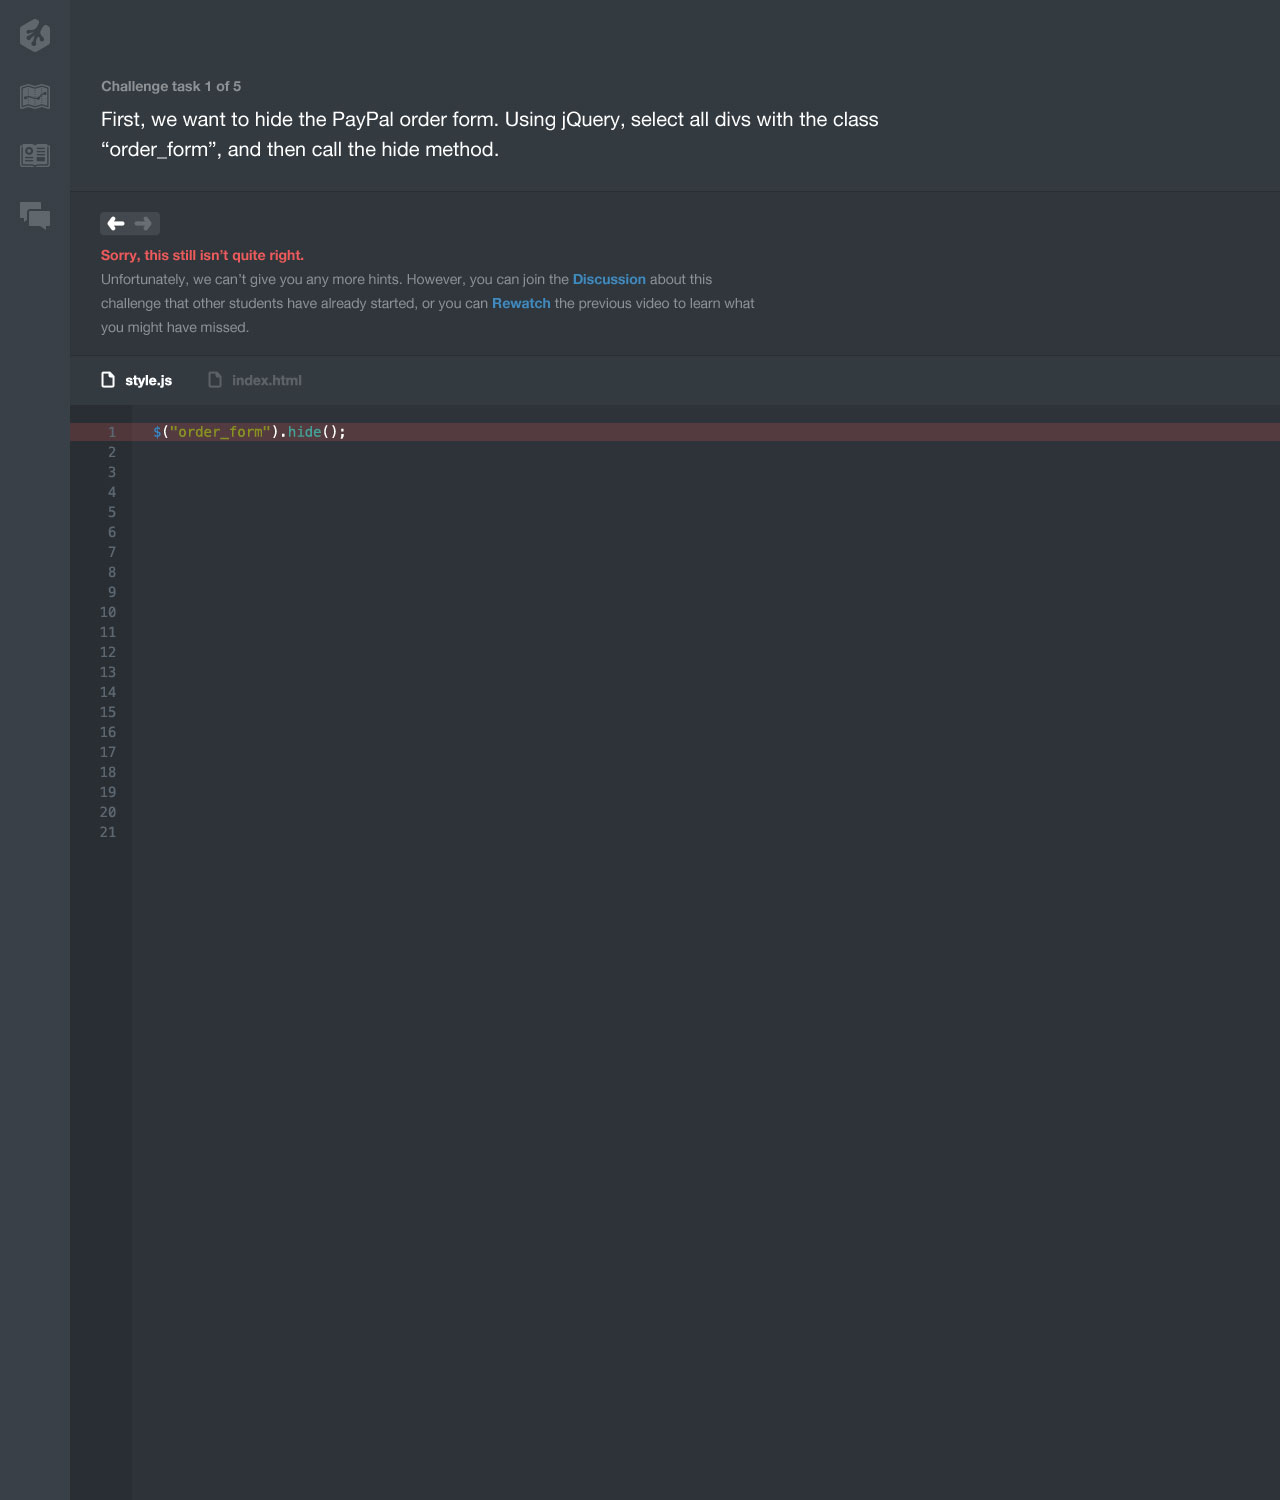
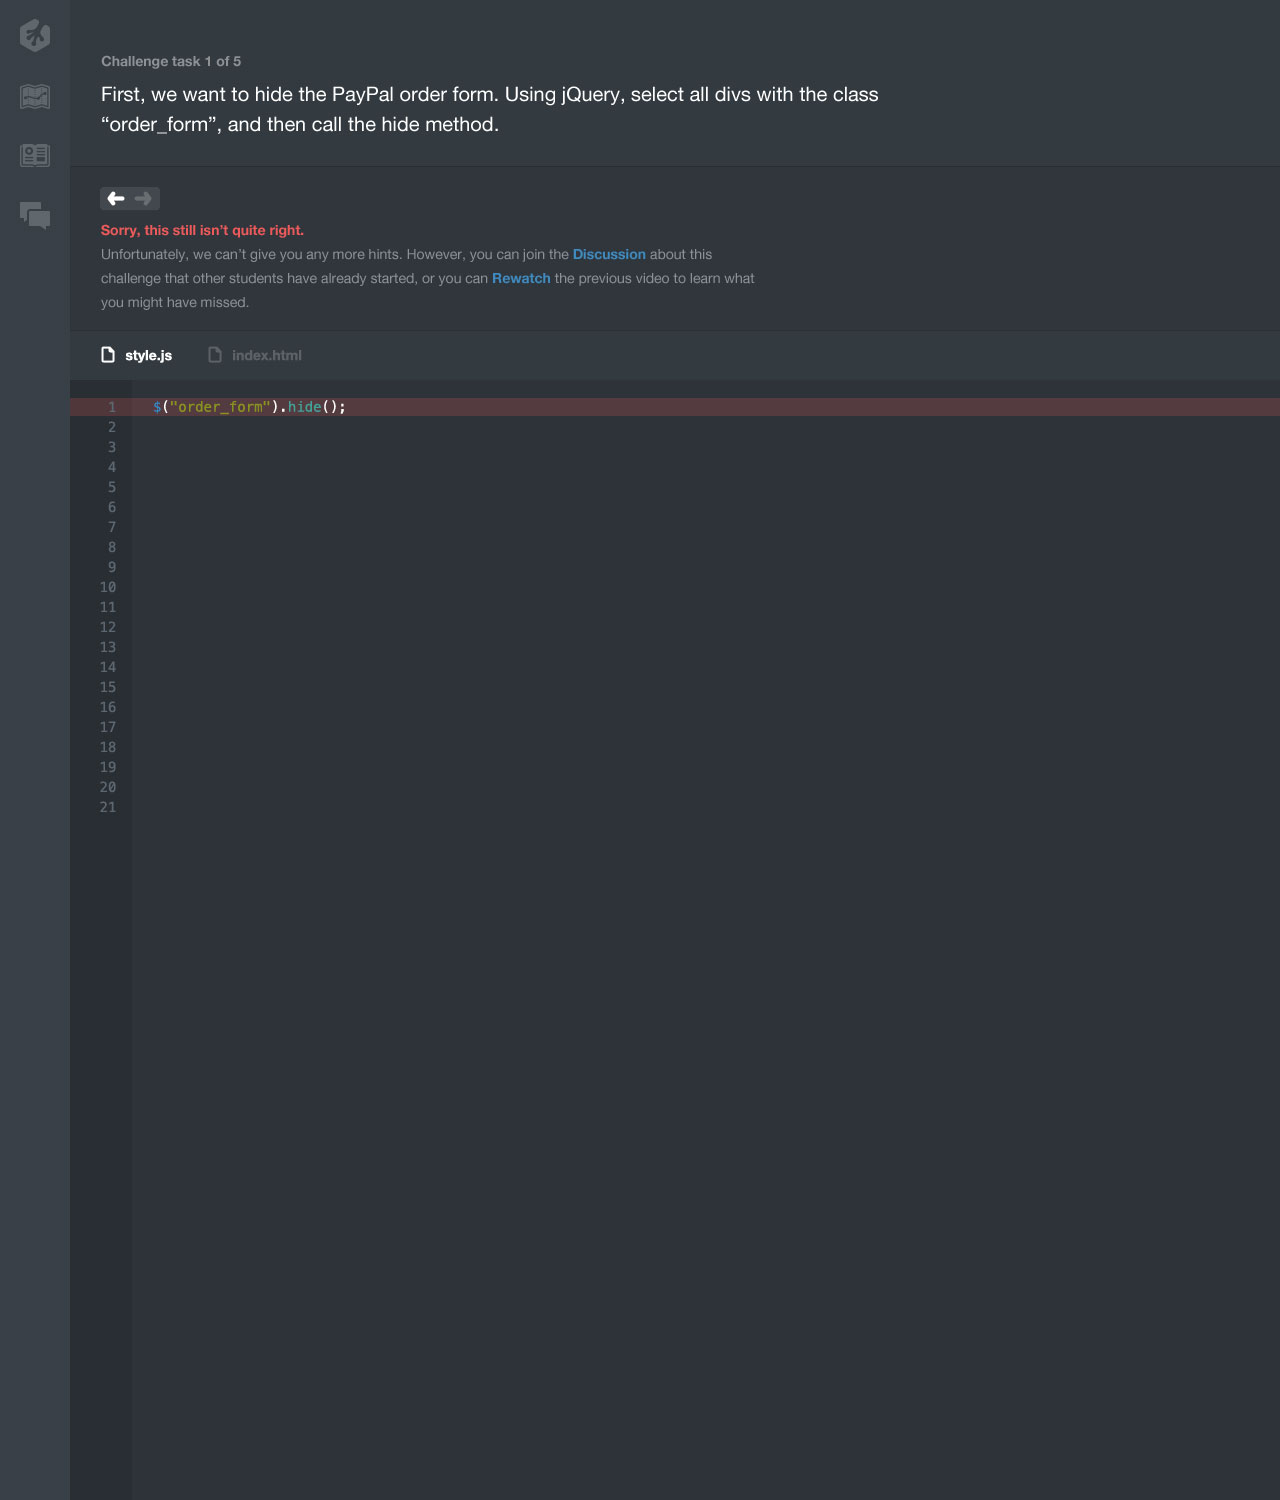
finalizing min maximize stuff

Changed region(s): [[0.0312, 0.0307, 1.0, 0.3067], [0.0625, 0.3987, 0.0938, 0.552]]

diff --git a/source/stylesheets/all.css b/source/stylesheets/all.css
@@ -58,7 +58,7 @@ body {
 .preview_1 {
   position: absolute;
   left: 100px;
-  top: 300px; }
+  top: 275px; }
 
 #preview_2 {
   position: absolute;
@@ -99,8 +99,8 @@ body {
   -moz-transition: all 0.2s;
   transition: all 0.2s;
   position: absolute;
-  top: 20px;
-  left: 100px; }
+  top: 30px;
+  left: 879px; }
   .minimize:after {
     content: "";
     background: url("/img/exit.png");
@@ -111,11 +111,40 @@ body {
     -moz-transition: all 0.2s;
     transition: all 0.2s;
     position: absolute;
-    left: 36px;
+    left: -120px;
     display: none; }
   .minimize:hover {
     opacity: 1; }
     .minimize:hover:after {
+      display: inline !important; }
+
+.maximize {
+  background: url("/img/maximize.png");
+  background-repeat: no-repeat;
+  width: 28px;
+  height: 28px;
+  opacity: .25;
+  -webkit-transition: all 0.2s;
+  -moz-transition: all 0.2s;
+  transition: all 0.2s;
+  position: absolute;
+  top: 89px;
+  left: 898px; }
+  .maximize:after {
+    content: "";
+    background: url("/img/enter.png");
+    background-repeat: no-repeat;
+    width: 118px;
+    height: 28px;
+    -webkit-transition: all 0.2s;
+    -moz-transition: all 0.2s;
+    transition: all 0.2s;
+    position: absolute;
+    left: -130px;
+    display: none; }
+  .maximize:hover {
+    opacity: 1; }
+    .maximize:hover:after {
       display: inline !important; }
 
 body {
@@ -152,7 +181,7 @@ h2 {
   -moz-transition: all 0.2s;
   transition: all 0.2s;
   position: absolute;
-  top: 209px;
+  top: 184px;
   left: 783px; }
   .button:hover {
     background: #3ac162;
@@ -167,4 +196,4 @@ h2 {
       border: 1px solid #545659;
       border-bottom: 3px solid #545659; }
   .button.button-task2 {
-    top: 274px !important; }
+    top: 249px !important; }

diff --git a/source/stylesheets/scss/base.scss b/source/stylesheets/scss/base.scss
@@ -12,7 +12,7 @@ body{
 .preview_1{
 	position: absolute;
 	left: 100px;
-	top: 300px;
+	top: 275px;
 }
 #preview_2{
 	position: absolute;
@@ -54,8 +54,8 @@ body{
 	@include transition(0.2s);
 
 	position: absolute;
-	top: 20px;
-	left: 100px;
+	top: 30px;
+	left: 879px;
 
 	&:after{
 		content: "";
@@ -66,7 +66,39 @@ body{
 		@include transition(0.2s);
 
 		position: absolute;
-		left: 36px;
+		left: -120px;
+		display: none;
+	}
+
+	&:hover{
+		opacity: 1;
+		&:after{
+			display: inline !important;
+		}
+	}
+}
+.maximize{
+	background: url("/img/maximize.png");
+	background-repeat: no-repeat;
+	width: 28px;
+	height: 28px;
+	opacity: .25;
+	@include transition(0.2s);
+
+	position: absolute;
+	top: 89px;
+	left: 898px;
+
+	&:after{
+		content: "";
+		background: url("/img/enter.png");
+		background-repeat: no-repeat;
+		width: 118px;
+		height: 28px;
+		@include transition(0.2s);
+
+		position: absolute;
+		left: -130px;
 		display: none;
 	}
 

diff --git a/source/stylesheets/scss/buttons.scss b/source/stylesheets/scss/buttons.scss
@@ -12,7 +12,7 @@
 	@include transition(0.2s);
 
 	position: absolute;
-	top: 209px;
+	top: 184px;
 	left: 783px;
 
 	&:hover{
@@ -32,6 +32,6 @@
 		}
 	}
 	&.button-task2{
-		top: 274px !important;
+		top: 249px !important;
 	}
 }

diff --git a/config.rb b/config.rb
@@ -24,6 +24,8 @@
 #   page "/admin/*"
 # end
 
+page "/14.html", :layout => "minimized"
+
 # Proxy pages (http://middlemanapp.com/basics/dynamic-pages/)
 # proxy "/this-page-has-no-template.html", "/template-file.html", :locals => {
 #  :which_fake_page => "Rendering a fake page with a local variable" }
